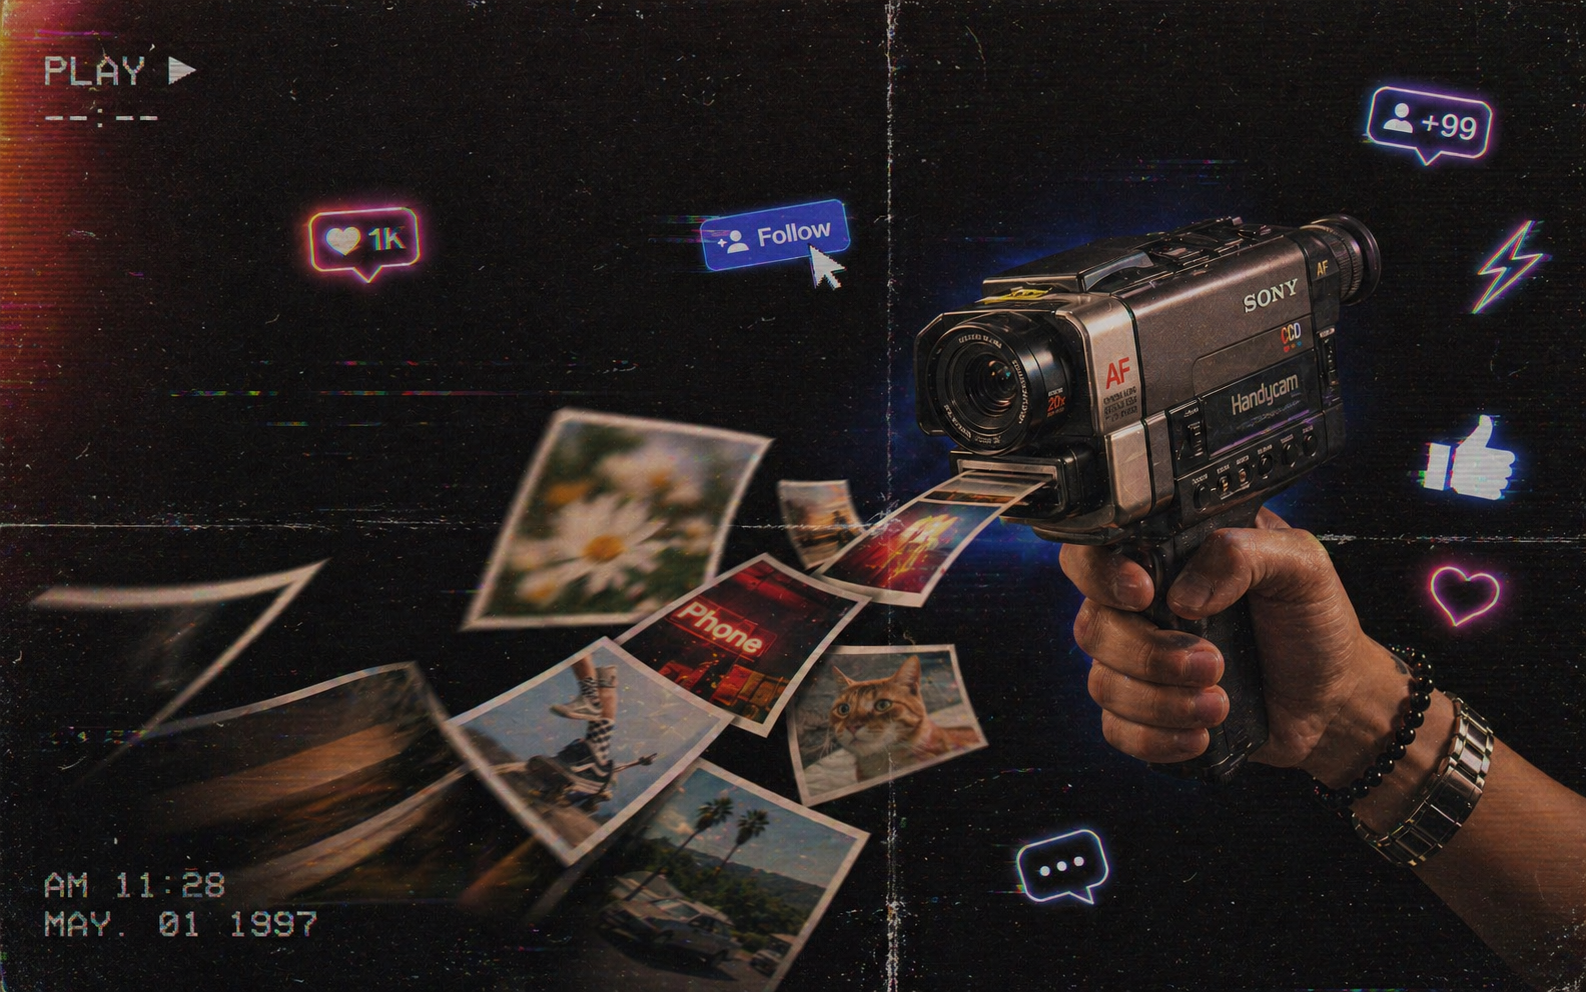
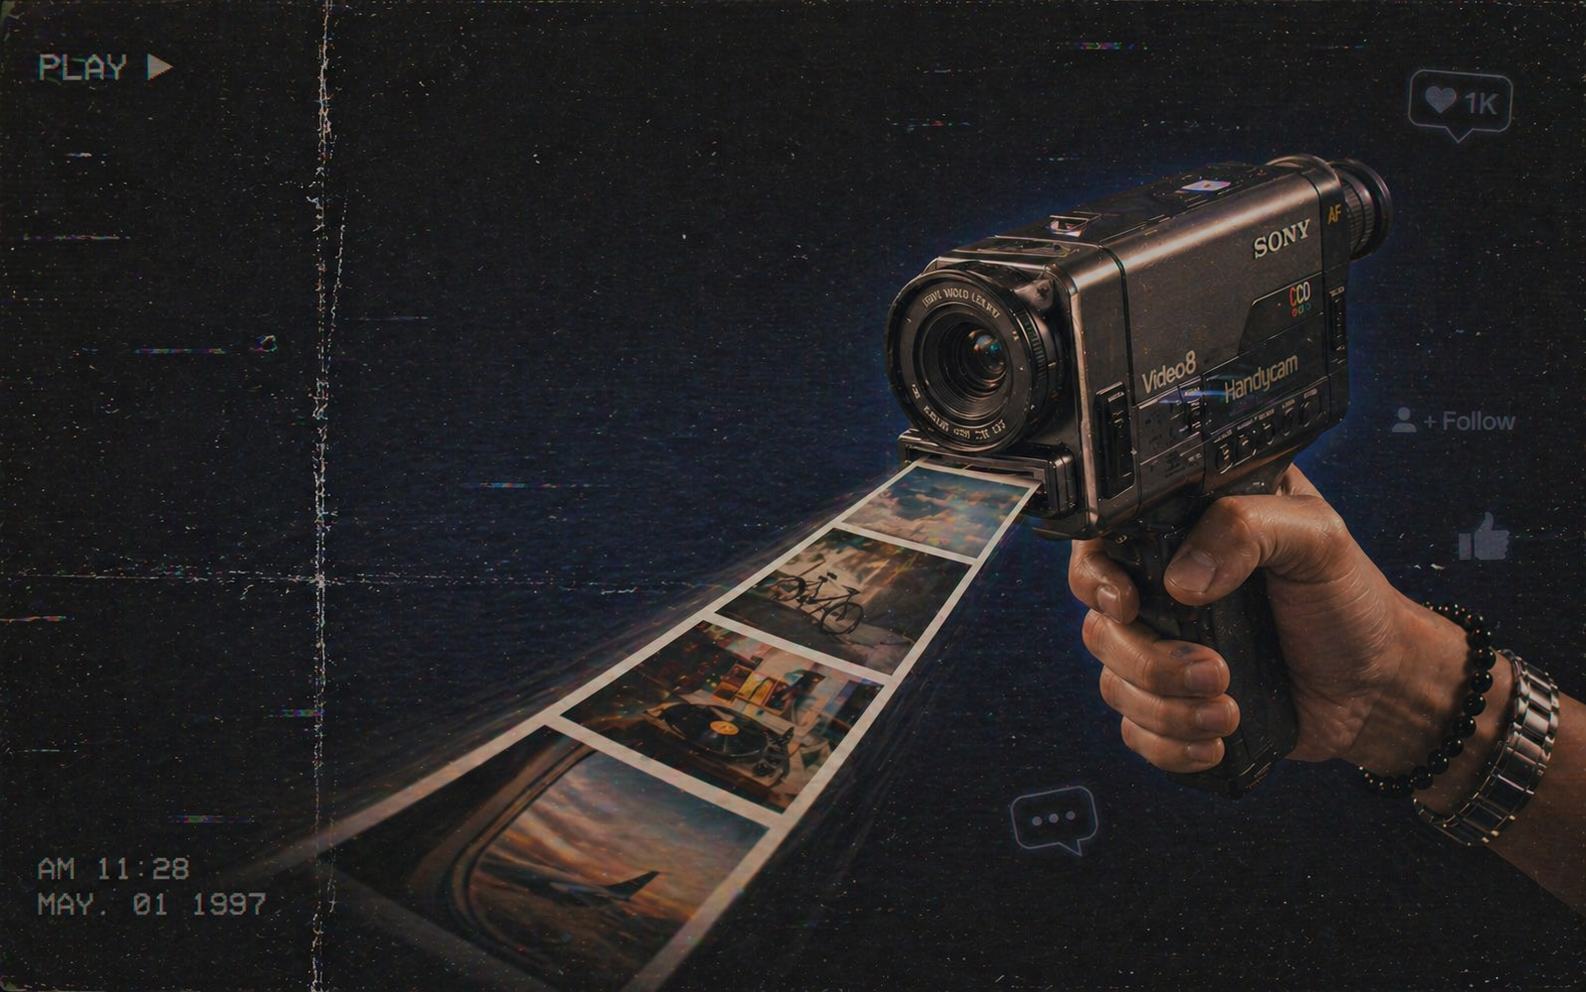
Update hero graphic and add TV wave animation effects
- New hero background image
- Rolling horizontal bands (tv-roll) above all content
- Subtle horizontal jitter on hero content (tv-jitter, every 7s)
- Signal pulse flicker (tv-pulse, every 12s)

diff --git a/index.html b/index.html
@@ -174,6 +174,39 @@
       pointer-events: none;
     }
 
+    /* TV rolling bands */
+    .tv-roll {
+      position: absolute; inset: 0; z-index: 5;
+      pointer-events: none;
+      background: repeating-linear-gradient(
+        0deg,
+        transparent 0px, transparent 60px,
+        rgba(255,255,255,0.012) 60px, rgba(255,255,255,0.012) 62px,
+        transparent 62px, transparent 120px,
+        rgba(0,0,0,0.018) 120px, rgba(0,0,0,0.018) 122px
+      );
+      animation: tv-roll 10s linear infinite;
+    }
+
+    @keyframes tv-roll {
+      from { background-position: 0 0; }
+      to   { background-position: 0 240px; }
+    }
+
+    /* TV signal pulse */
+    .tv-pulse {
+      position: absolute; inset: 0; z-index: 3;
+      pointer-events: none;
+      background: transparent;
+      animation: tv-pulse 12s ease-in-out infinite;
+    }
+
+    @keyframes tv-pulse {
+      0%,49%,51%,79%,81%,100% { opacity: 0; }
+      50% { opacity: 1; background: rgba(255,255,255,0.012); }
+      80% { opacity: 1; background: rgba(0,0,0,0.025); }
+    }
+
     /* Film grain */
     .hero-grain {
       position: absolute; inset: 0; z-index: 1;
@@ -182,7 +215,18 @@
     }
 
     /* Hero content sits above all overlays */
-    .hero-content { position: relative; z-index: 2; }
+    .hero-content {
+      position: relative; z-index: 4;
+      animation: tv-jitter 7s steps(1) infinite;
+    }
+
+    @keyframes tv-jitter {
+      0%,94%,100% { transform: translateX(0); filter: none; }
+      95%  { transform: translateX(-1.5px); filter: brightness(1.02); }
+      96%  { transform: translateX(1px);    filter: brightness(0.98); }
+      97%  { transform: translateX(-0.5px); filter: brightness(1.01); }
+      98%  { transform: translateX(0);      filter: none; }
+    }
 
     .hero-label {
       font-family: var(--font);
@@ -1113,6 +1157,9 @@ footer { flex-direction: column; gap: 0.75rem; text-align: center; }
     <div class="hero-bg"></div>
     <!-- Vignette -->
     <div class="hero-vignette"></div>
+    <!-- TV wave effects -->
+    <div class="tv-roll"></div>
+    <div class="tv-pulse"></div>
     <!-- Film grain -->
     <svg class="hero-grain" preserveAspectRatio="xMidYMid slice">
       <defs>
